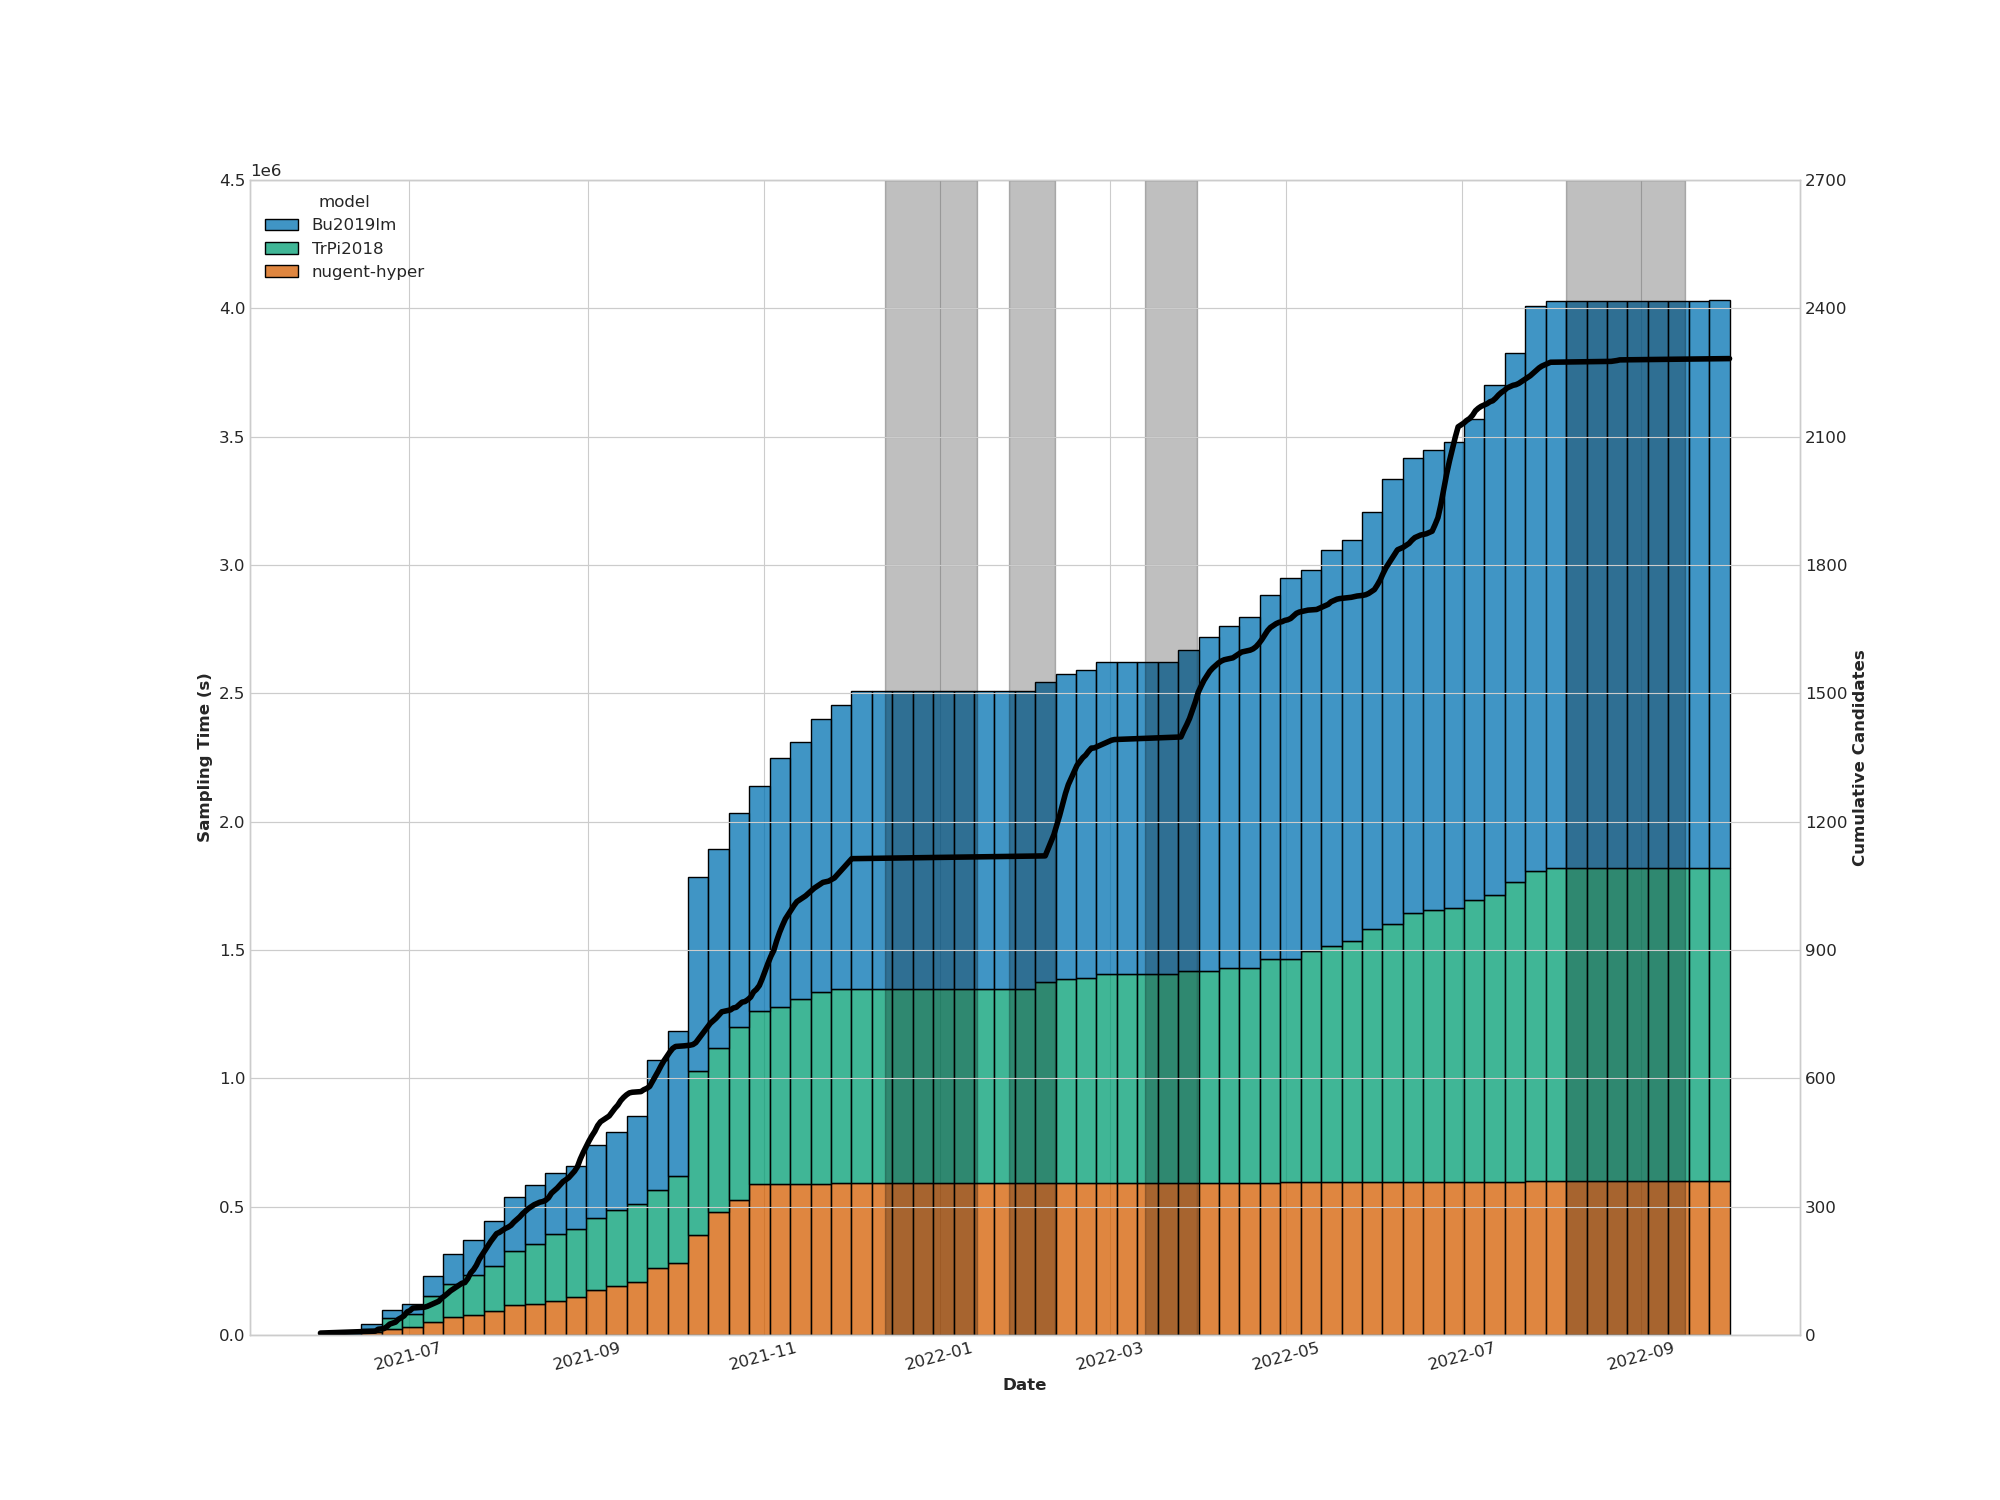
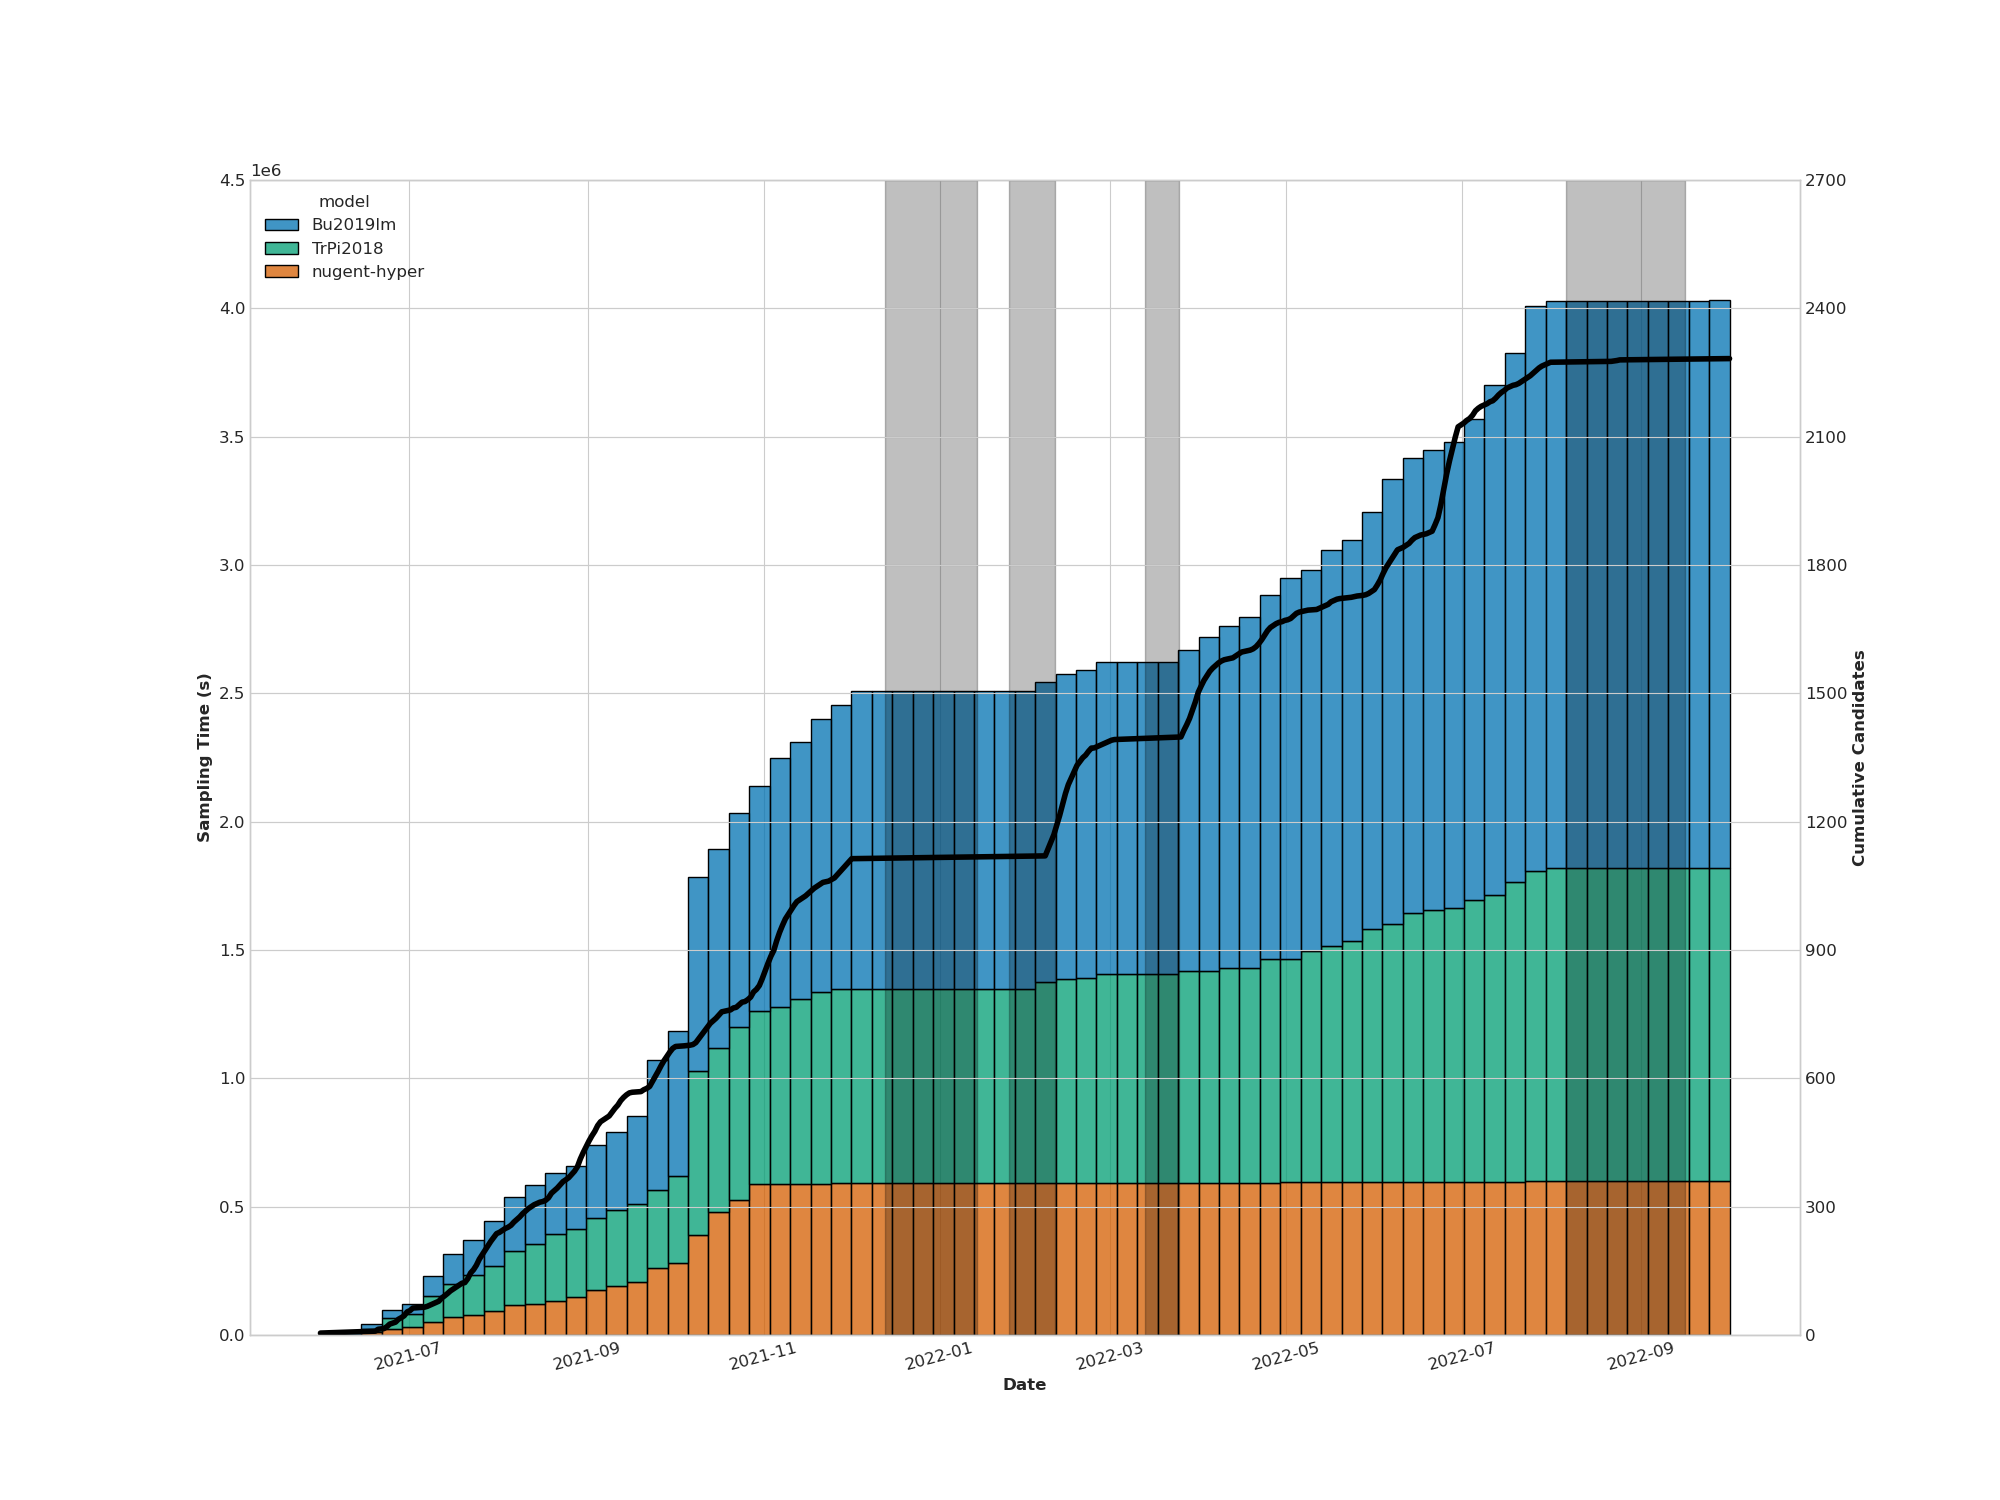
date range tweak

Changed region(s): [[0.589, 0.1227, 0.62, 0.8893]]

diff --git a/stats.py b/stats.py
@@ -855,7 +855,7 @@ def plotSamplingTimes(df, models=args.models, save=True, outdir=args.outdir, ext
     ## manually added time spans for maintenance and issues
     ax.axvspan('2021-12-13', '2022-01-14', alpha=0.25, color='black',zorder=10,label='ZTF Maintenance')
     ax.axvspan('2022-01-25', '2022-02-10', alpha=0.25, color='black',zorder=10)
-    ax.axvspan("2022-03-13","2022-03-31", alpha=0.25, color='black',zorder=10)
+    ax.axvspan("2022-03-13","2022-03-25", alpha=0.25, color='black',zorder=10)
     # ax.axvspan("2022-06-15","2022-06-16", alpha=0.25, color='black',zorder=0)
     #ax.axvspan("2022-09-09","2022-09-14", alpha=0.25, color='black',zorder=10)
     ax.axvspan("2022-08-06","2022-09-16", alpha=0.25, color='black',zorder=10, label='Schoty Issues')
